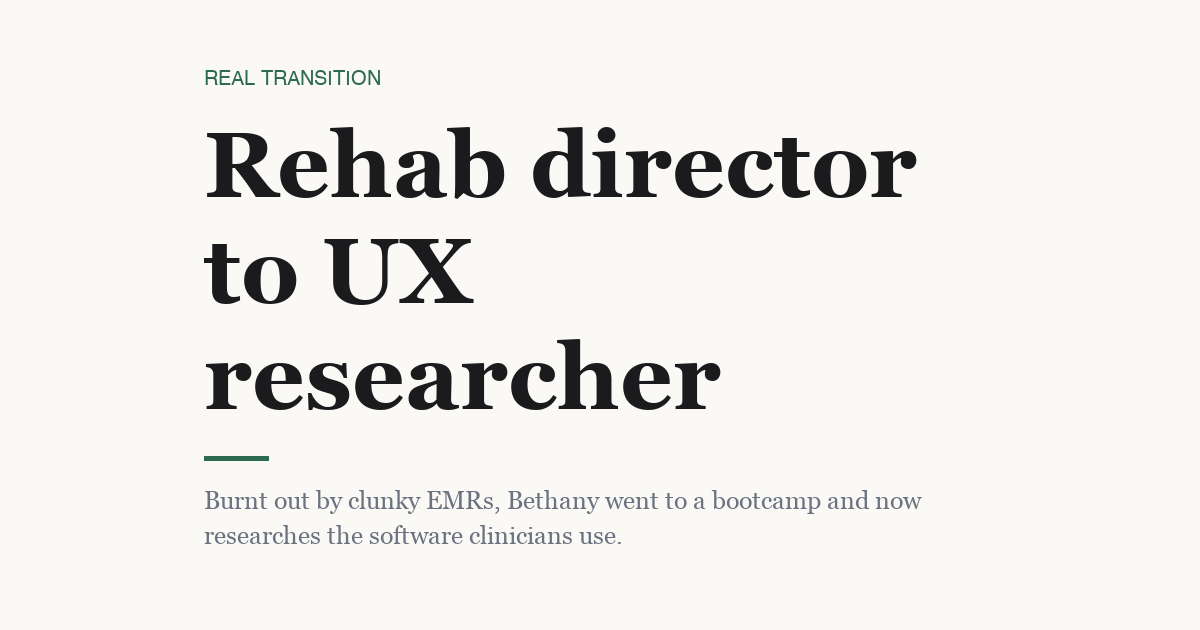
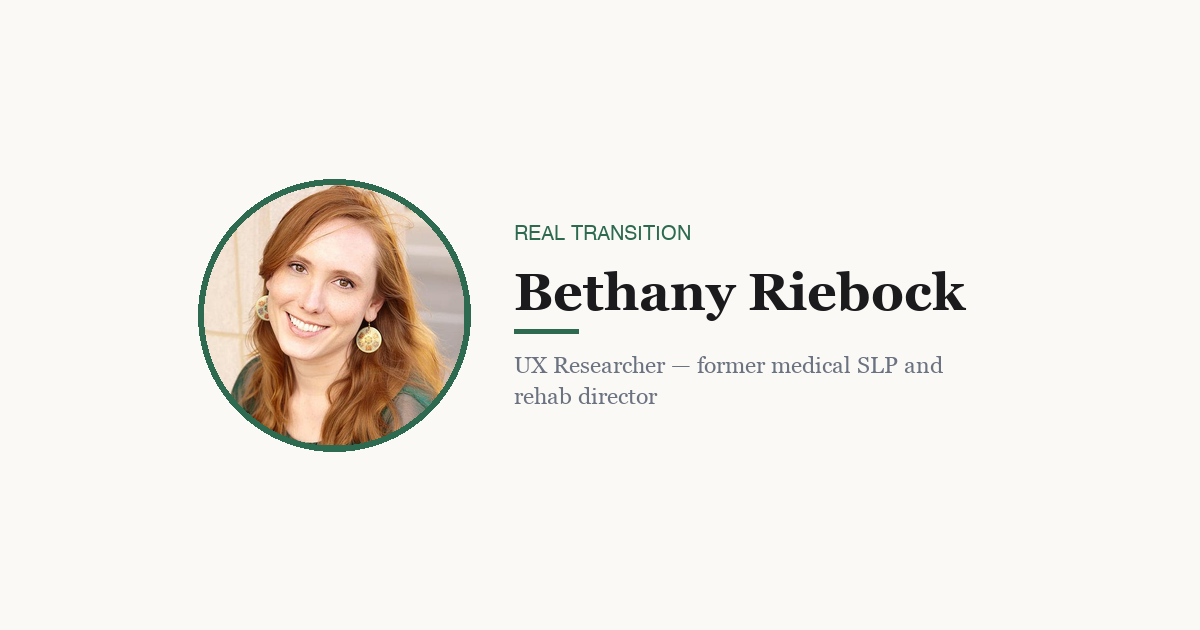
Real headshots for the older interviews; fix stale WP thumbnail crops
Two things were wrong.

1. Stale crops. Re-uploading a header under the same base filename left
   WordPress serving the ORIGINAL -300x158 / -600x315 variants while the
   full-size file was correct -- which is why some cards showed the new
   design and others still showed the old logo version, apparently at
   random. Everything now uploads under a versioned filename so WP
   generates fresh crops.

2. Headshots over stat cards where a real photo exists. Bethany Riebock
   now uses her own published Medium profile avatar (512px), and Caitlin
   Mueller uses the headshot she supplied for her own interview, already
   in the media library. Lindsey Ison and Taimi Shepis were already done.

Sarah's SLP-to-K post keeps the stat card: there is no photo of her on
the site or in the post (the previous image was Unsplash stock), her
surname isn't public in our copy, and the only photo is inside a CNBC
article that blocks fetching and would be CNBC-licensed anyway.

Sourcing note: podcast-guest photos came from the show's own guest pages,
where guests supplied them. Bethany's came from her own Medium profile
rather than from The Non-Clinical PT, which also hosts one -- taking a
competitor's hosted image would have been the wrong call.

Nothing was deleted; every original is still in the media library.

diff --git a/scripts/make_guest_header.py b/scripts/make_guest_header.py
@@ -185,6 +185,14 @@ if __name__ == "__main__":
         dict(photo="taimi-shepis.jpeg", kicker="Real transition",
              name="Taimi Shepis", role="Yoga and anxiety coach — former SLP",
              out="00-yoga-and-anxiety-coach.png"),
+        # Bethany's photo is her own published Medium profile avatar; Caitlin's
+        # was already on the site, supplied for her interview.
+        dict(photo="bethany-riebock.jpeg", kicker="Real transition",
+             name="Bethany Riebock", role="UX Researcher — former medical SLP and rehab director",
+             out="00-slp-to-ux.png"),
+        dict(photo="caitlin-mueller.jpeg", kicker="Real transition",
+             name="Caitlin Mueller", role="Clinical consultant & marketing in AAC — former SLP",
+             out="00-clinical-consultant-and-marketing.png"),
     ]
 
     only = sys.argv[1] if len(sys.argv) > 1 else None

diff --git a/scripts/make_guide_header.py b/scripts/make_guide_header.py
@@ -104,8 +104,6 @@ GUIDES = [
      "The salary range, the timeline, and what each one actually asks of you."),
     ("00-slp-software-engineer", "Real transition", "$96K, self-taught",
      "An SLP working part-time SNF gigs taught herself to code. Now she engineers in Austin."),
-    ("00-slp-to-ux", "Real transition", "Rehab director to UX researcher",
-     "Burnt out by clunky EMRs, Bethany went to a bootcamp and now researches the software clinicians use."),
 ]
 
 if __name__ == "__main__":
